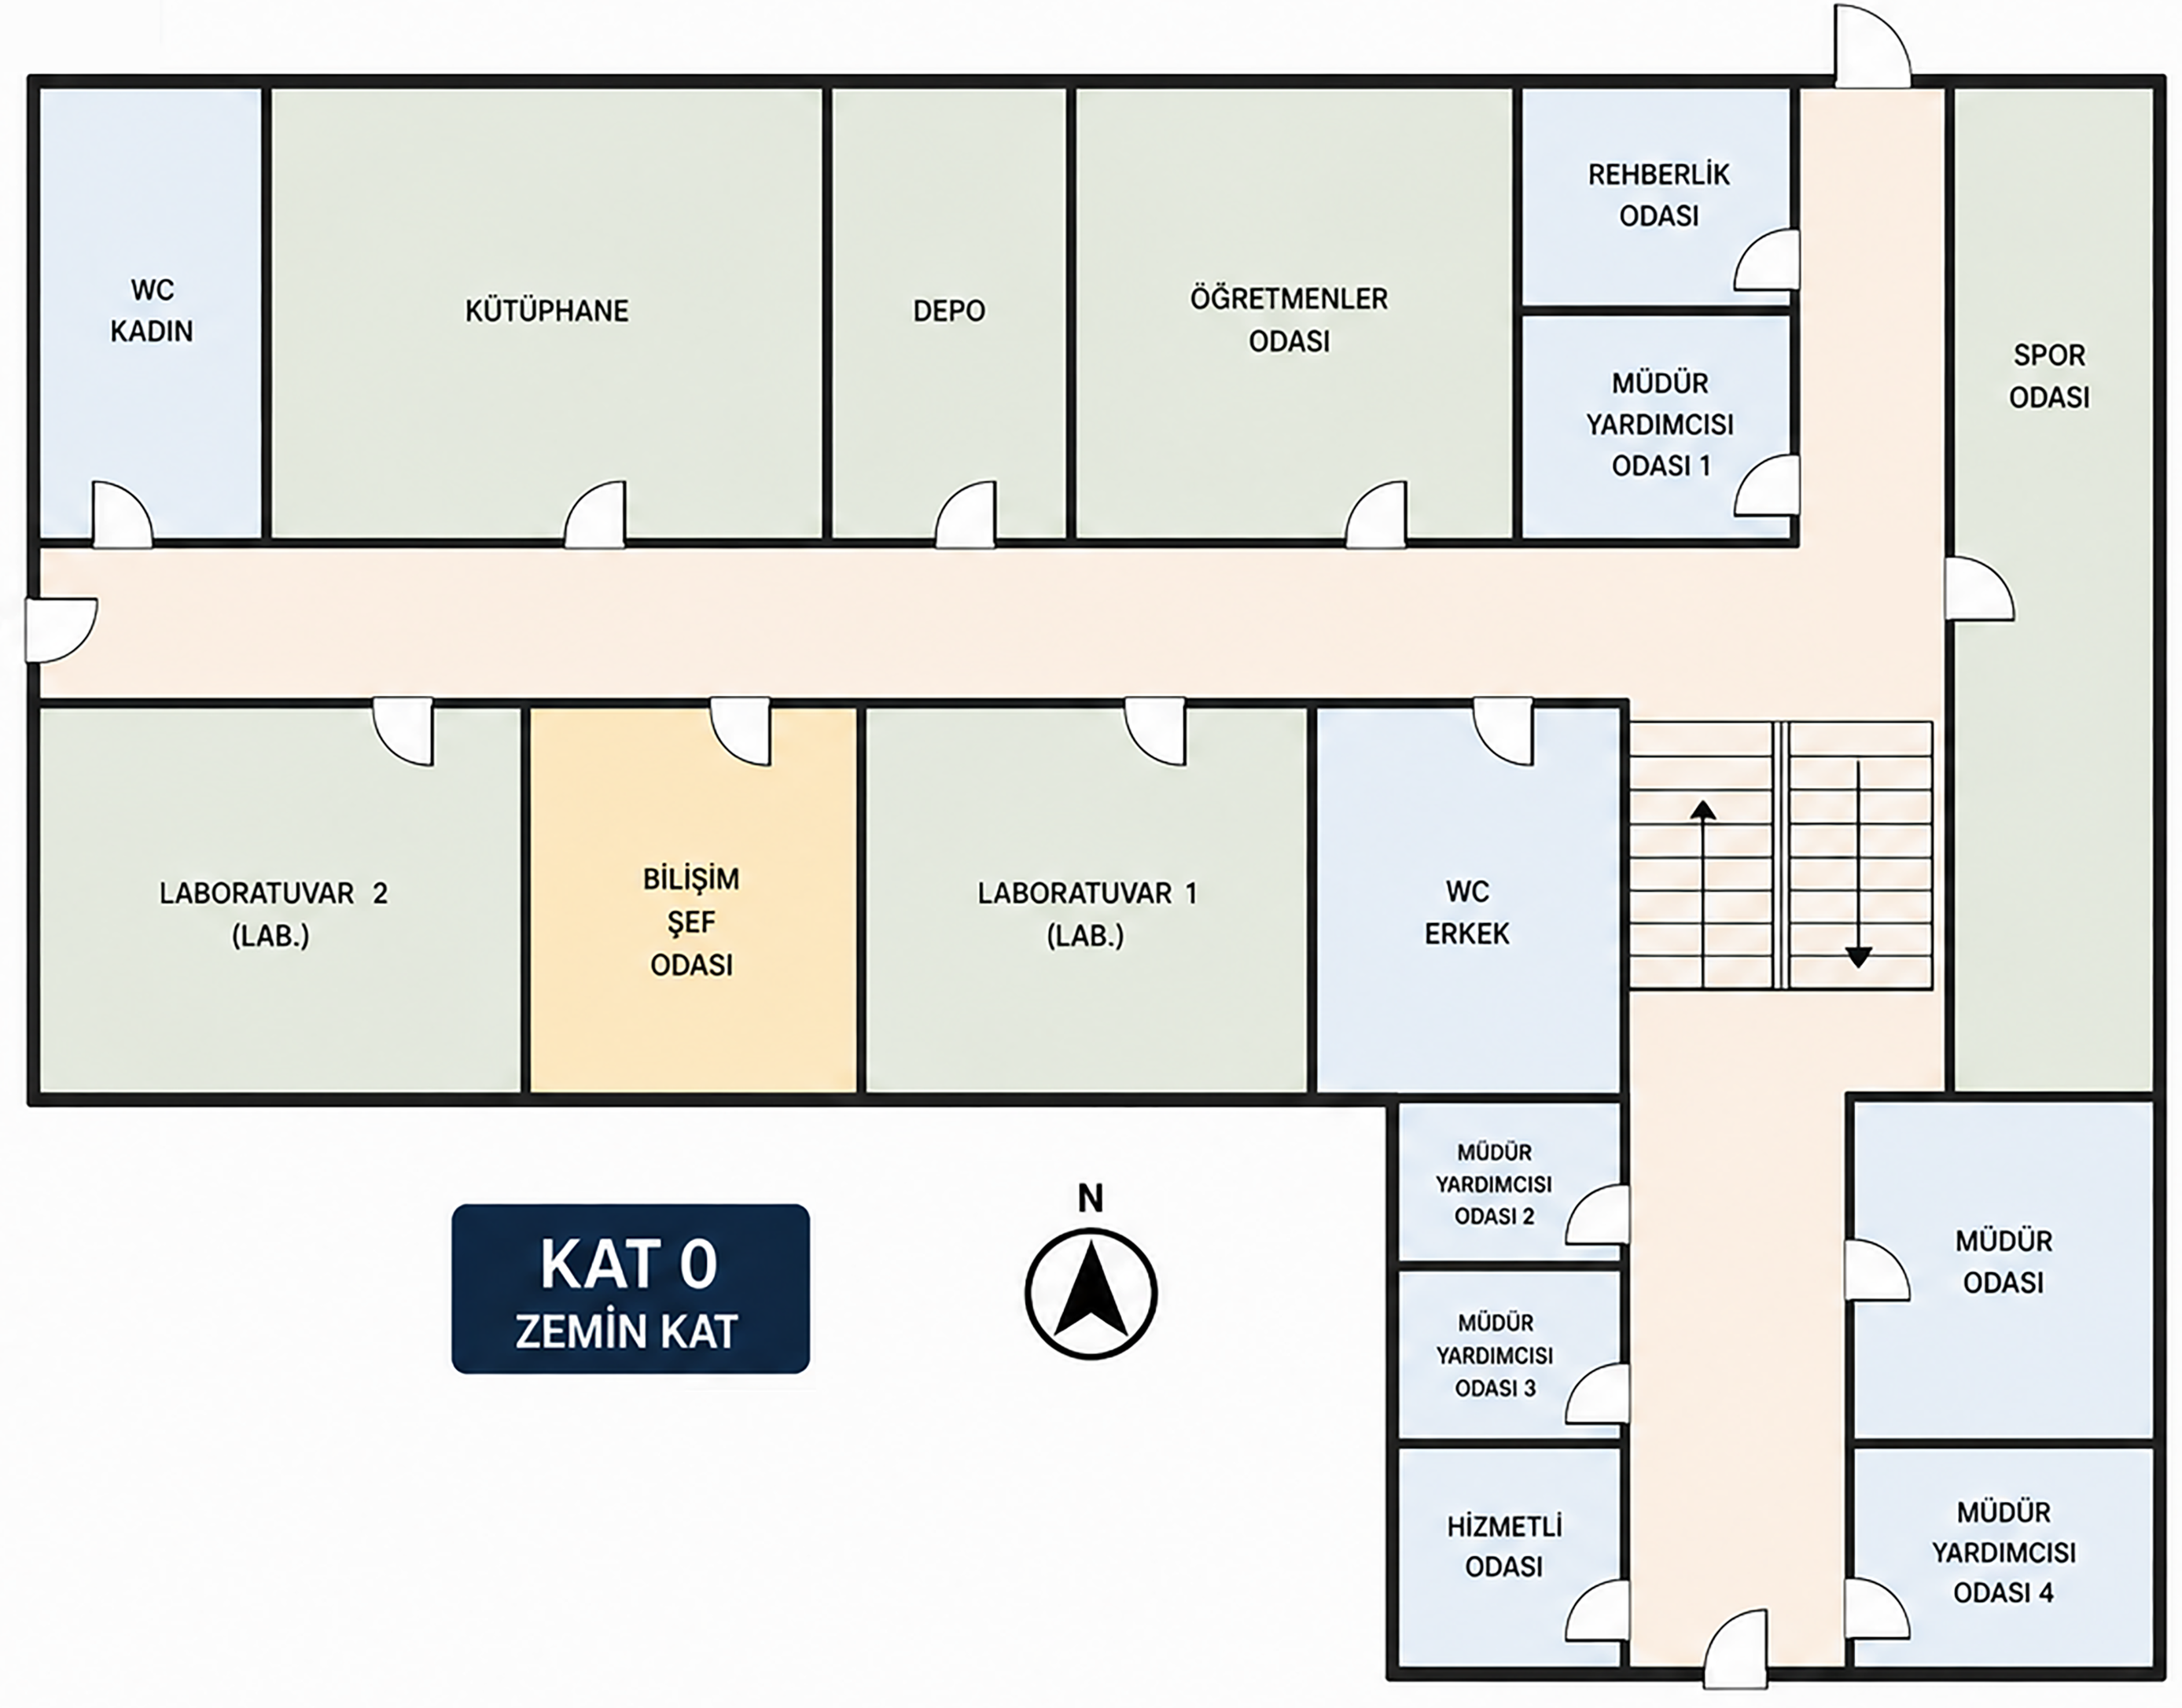
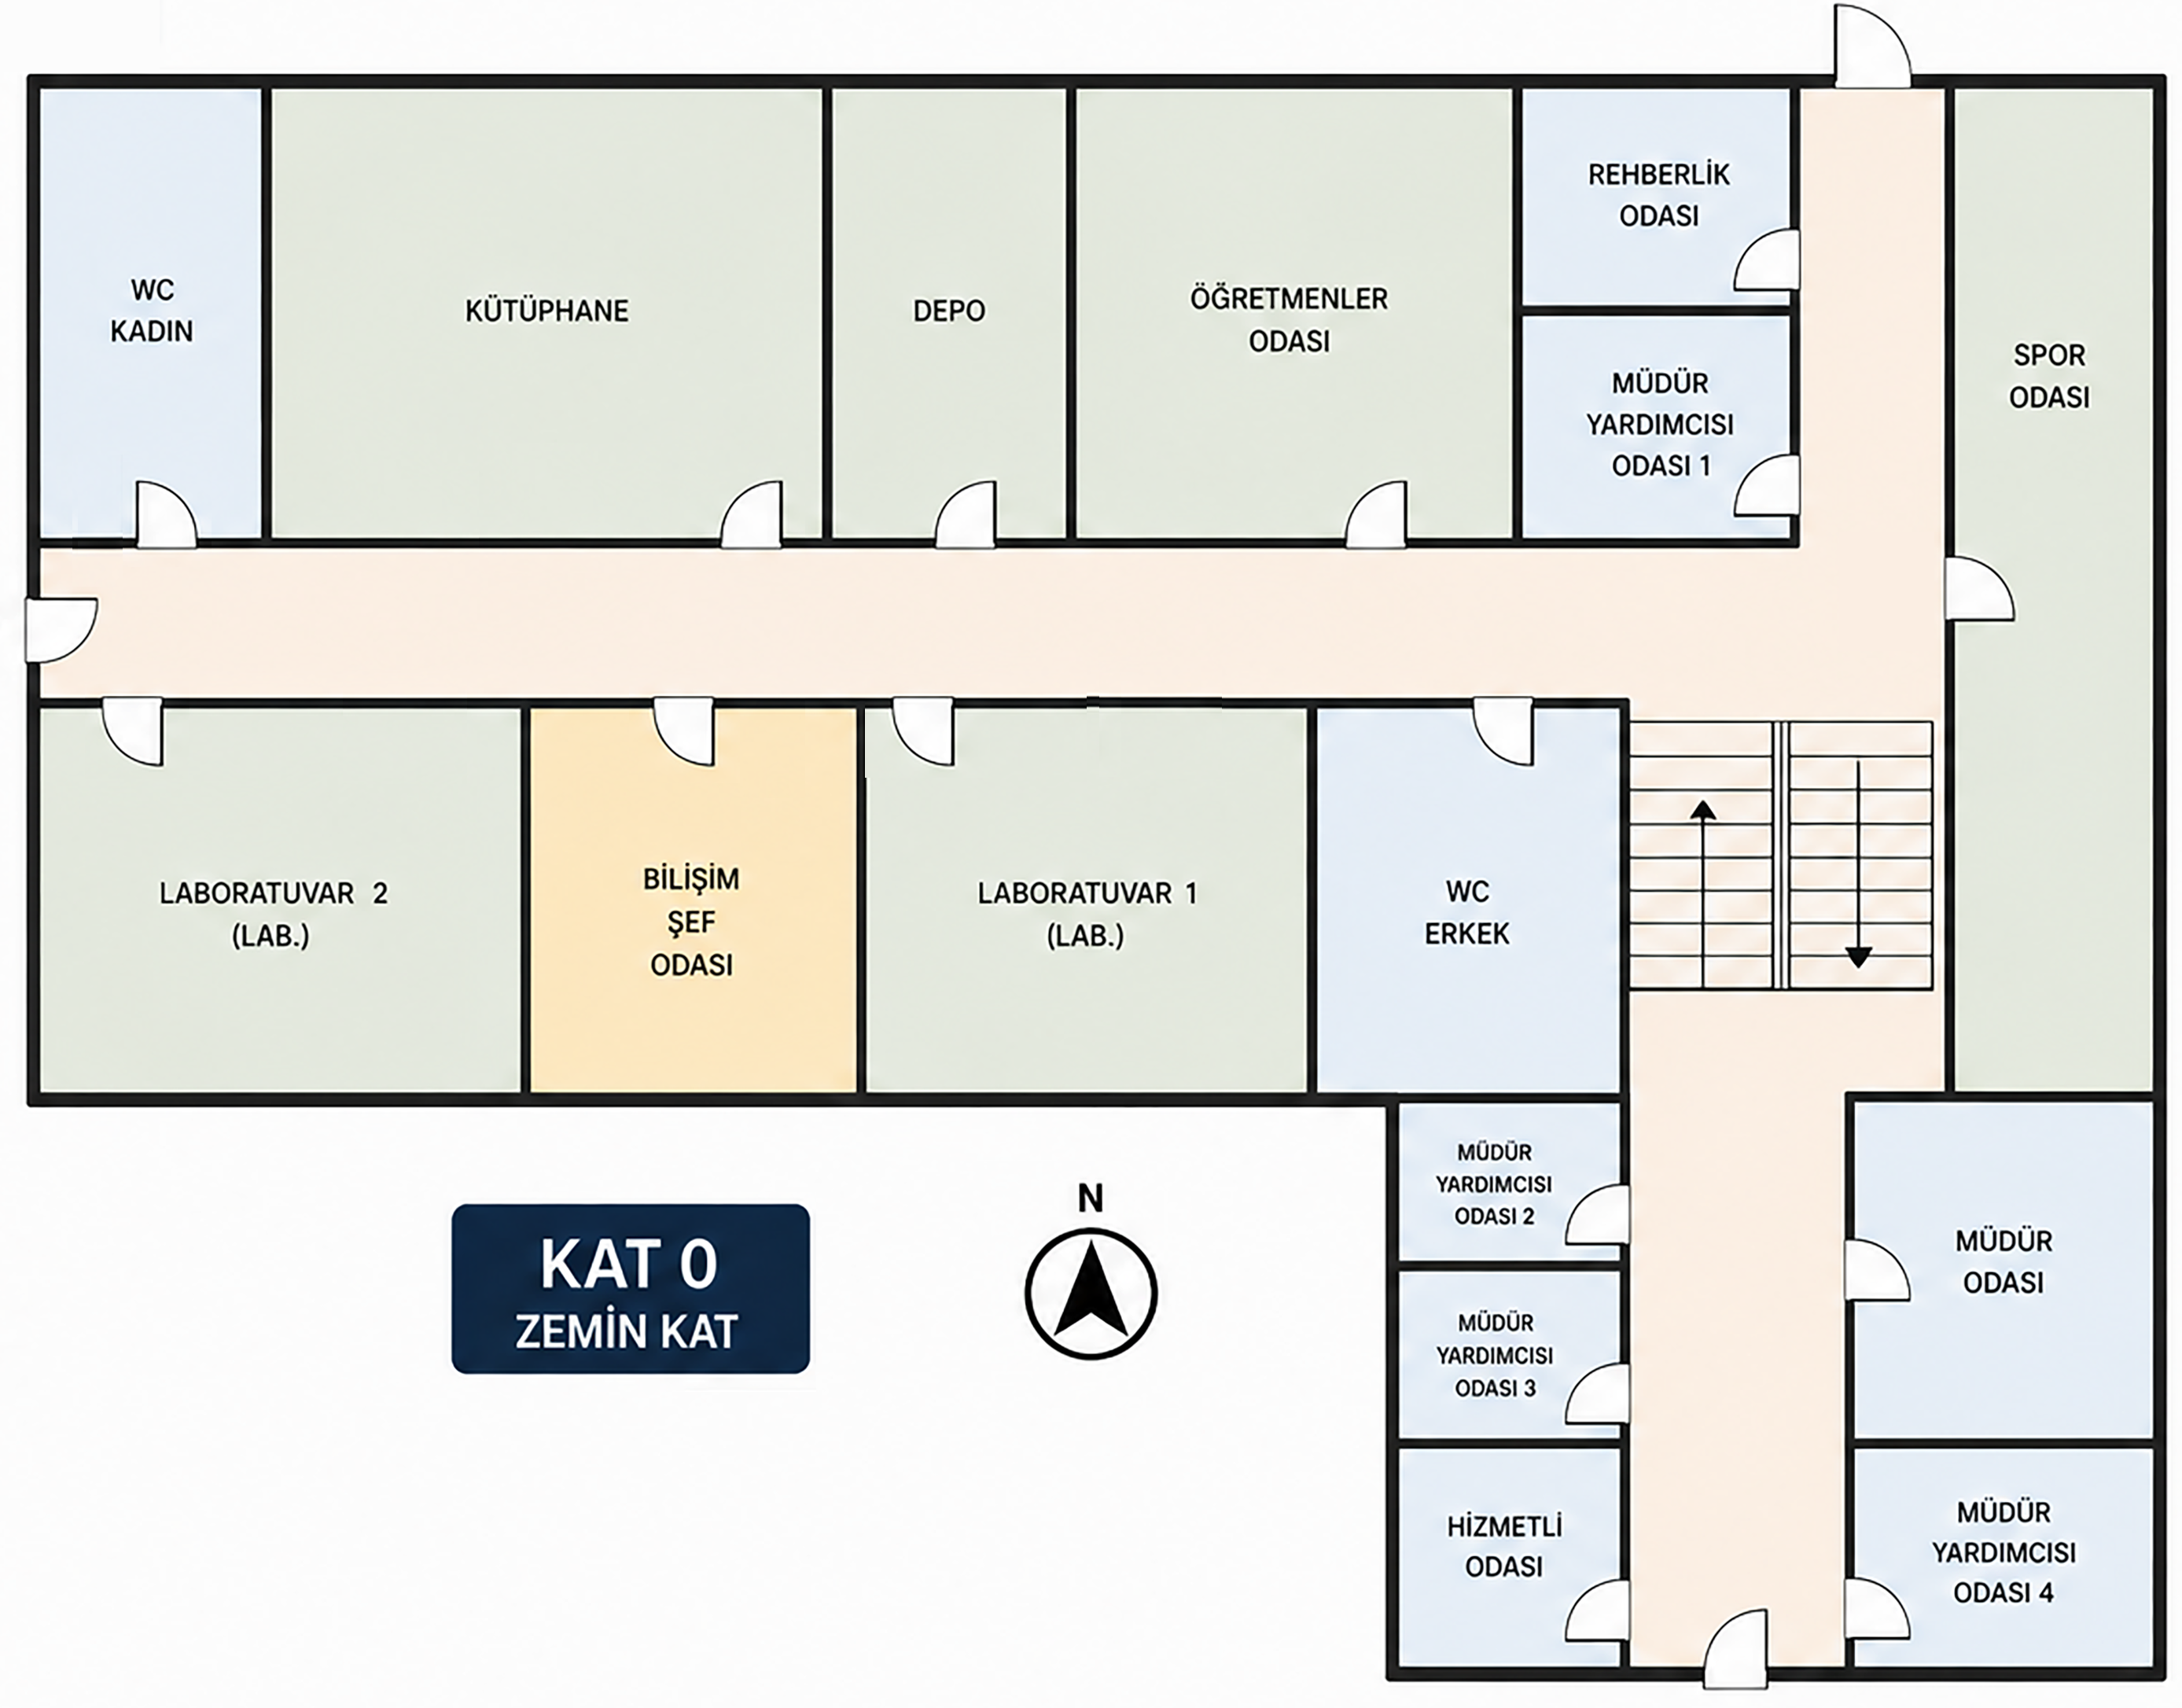
adım 24

diff --git a/App.tsx b/App.tsx
@@ -84,8 +84,17 @@ const ROUTE_TOTAL_STEP_CALIBRATIONS: Record<string, number> = {
   'N1|P02': 5,
   // N1 -> N3 hatti hedefi (Spor odasi/N3): 10 adim
   'N1|P07': 10,
+  // N1 -> Ogretmenler: 10 adim guney + 9 adim bati = 19 adim
+  'N1|P03': 19,
   // N1 -> WC Erkek: 15 adim (N1->N3:10 + N3->N6:5)
   'N1|P11': 15,
+  // N13 baslangici (N2 bati koridoru kalibrasyonlari)
+  'N13|P04': 10, // Depo
+  'N13|P05': 13, // Kutuphane
+  'N13|P06': 28, // WC Kadin
+  'N13|P08': 11, // Laboratuvar 1
+  'N13|P10': 15, // Sef Odasi
+  'N13|P09': 25, // Laboratuvar 2
 };
 
 const applyRouteTotalStepCalibration = (
@@ -547,6 +556,14 @@ function App() {
         'N6|P06': ['N6', 'N12', 'N11', 'N9'],
         'N12|P06': ['N12', 'N11', 'N9'],
         'N11|P06': ['N11', 'N9'],
+
+        // N13 baslangici: N2 bati koridoru sabit akisi
+        'N13|P04': ['N13', 'N2', 'N12'],
+        'N13|P05': ['N13', 'N2', 'N12', 'N11'],
+        'N13|P06': ['N13', 'N2', 'N12', 'N11', 'N9'],
+        'N13|P08': ['N13', 'N2', 'N8', 'N7'],
+        'N13|P10': ['N13', 'N2', 'N8'],
+        'N13|P09': ['N13', 'N2', 'N8'],
       };
 
       const direct = fixedByStartAndOption[`${startNodeId}|${optionId}`];

diff --git a/src/data/floorplans/kat0.adapter.ts b/src/data/floorplans/kat0.adapter.ts
@@ -37,7 +37,7 @@ const STEP_OVERRIDES: Record<string, number> = {
   'N1->N3': 10,
   'N3->N4': 7,
   'N3->N6': 5,
-  'N3->N13': 3,
+  'N3->N13': 9,
   'N13->N2': 3,
   'N4->N5': 19,
   'N5->N10': 10,

diff --git a/src/data/floorplans/kat0.generated.ts b/src/data/floorplans/kat0.generated.ts
@@ -76,7 +76,7 @@ export const KAT0_DATASET: FloorPlanDataset = {
   ],
   edges: [
     {from: 'N1', to: 'N3', meters: 5.2, corridor: 'Dikey giriş koridoru', instruction: 'Güney yönünde düz ilerleyin.'},
-    {from: 'N3', to: 'N13', meters: 4.7, corridor: 'Üst ana koridor', instruction: 'Öğretmenler odası hattına ilerleyin.'},
+    {from: 'N3', to: 'N13', meters: 4.7, corridor: 'Üst ana koridor', instruction: 'Batı yönünde öğretmenler odası hattına ilerleyin.'},
     {from: 'N13', to: 'N2', meters: 4.8, corridor: 'Üst ana koridor', instruction: 'Koridorun orta noktasına ilerleyin.'},
     {from: 'N2', to: 'N12', meters: 4.3, corridor: 'Üst koridor', instruction: 'Ana koridorda batı yönüne ilerleyin.'},
     {from: 'N12', to: 'N11', meters: 5.0, corridor: 'Üst koridor', instruction: 'Kütüphane kapısı hattına ilerleyin.'},